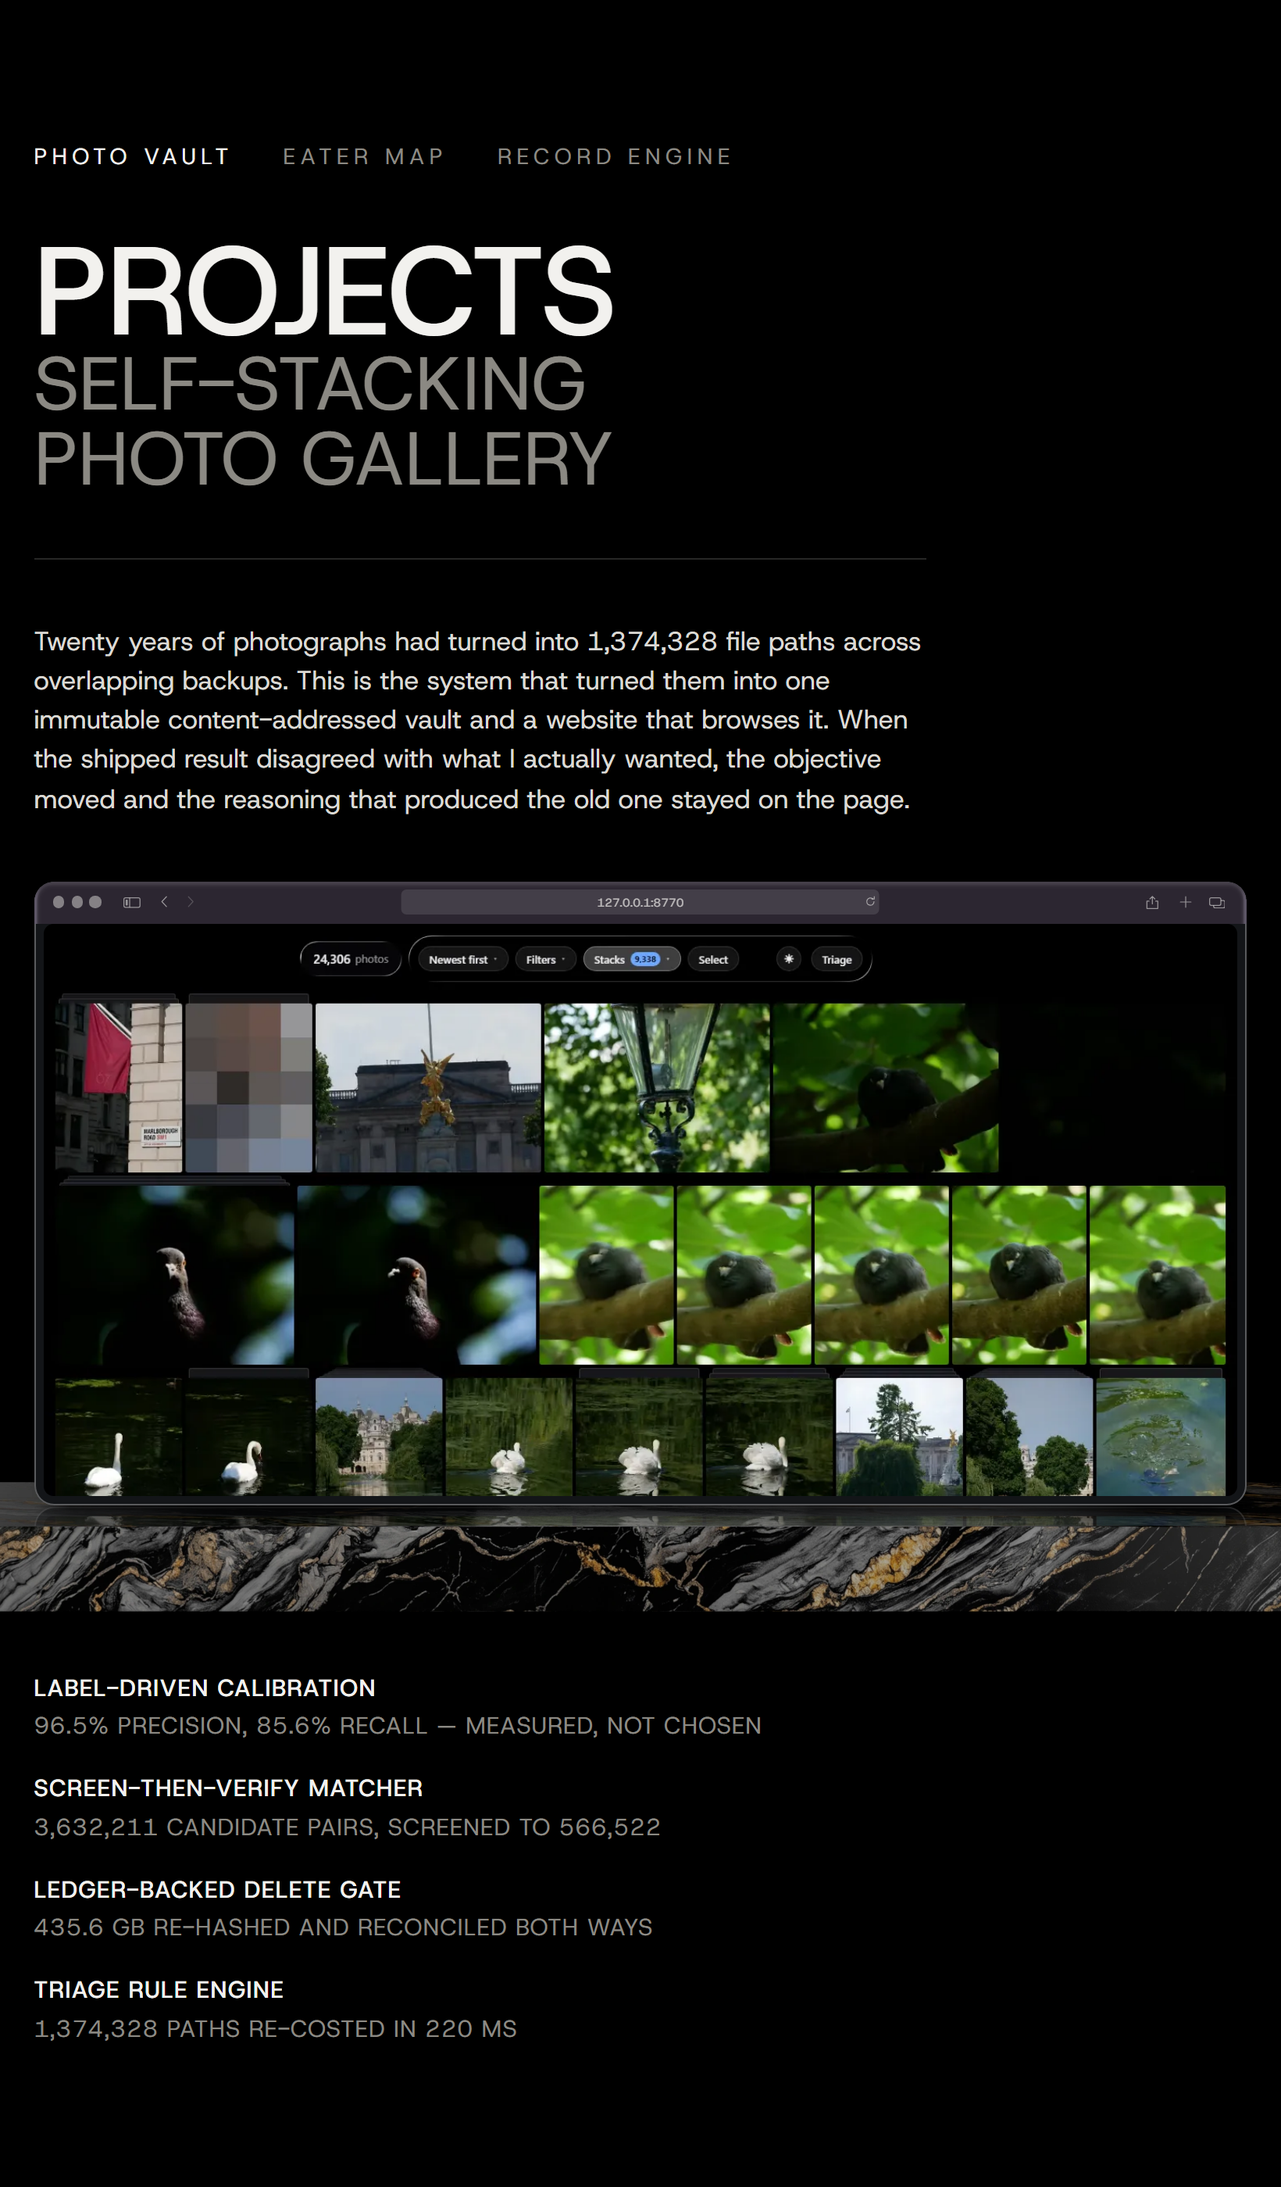
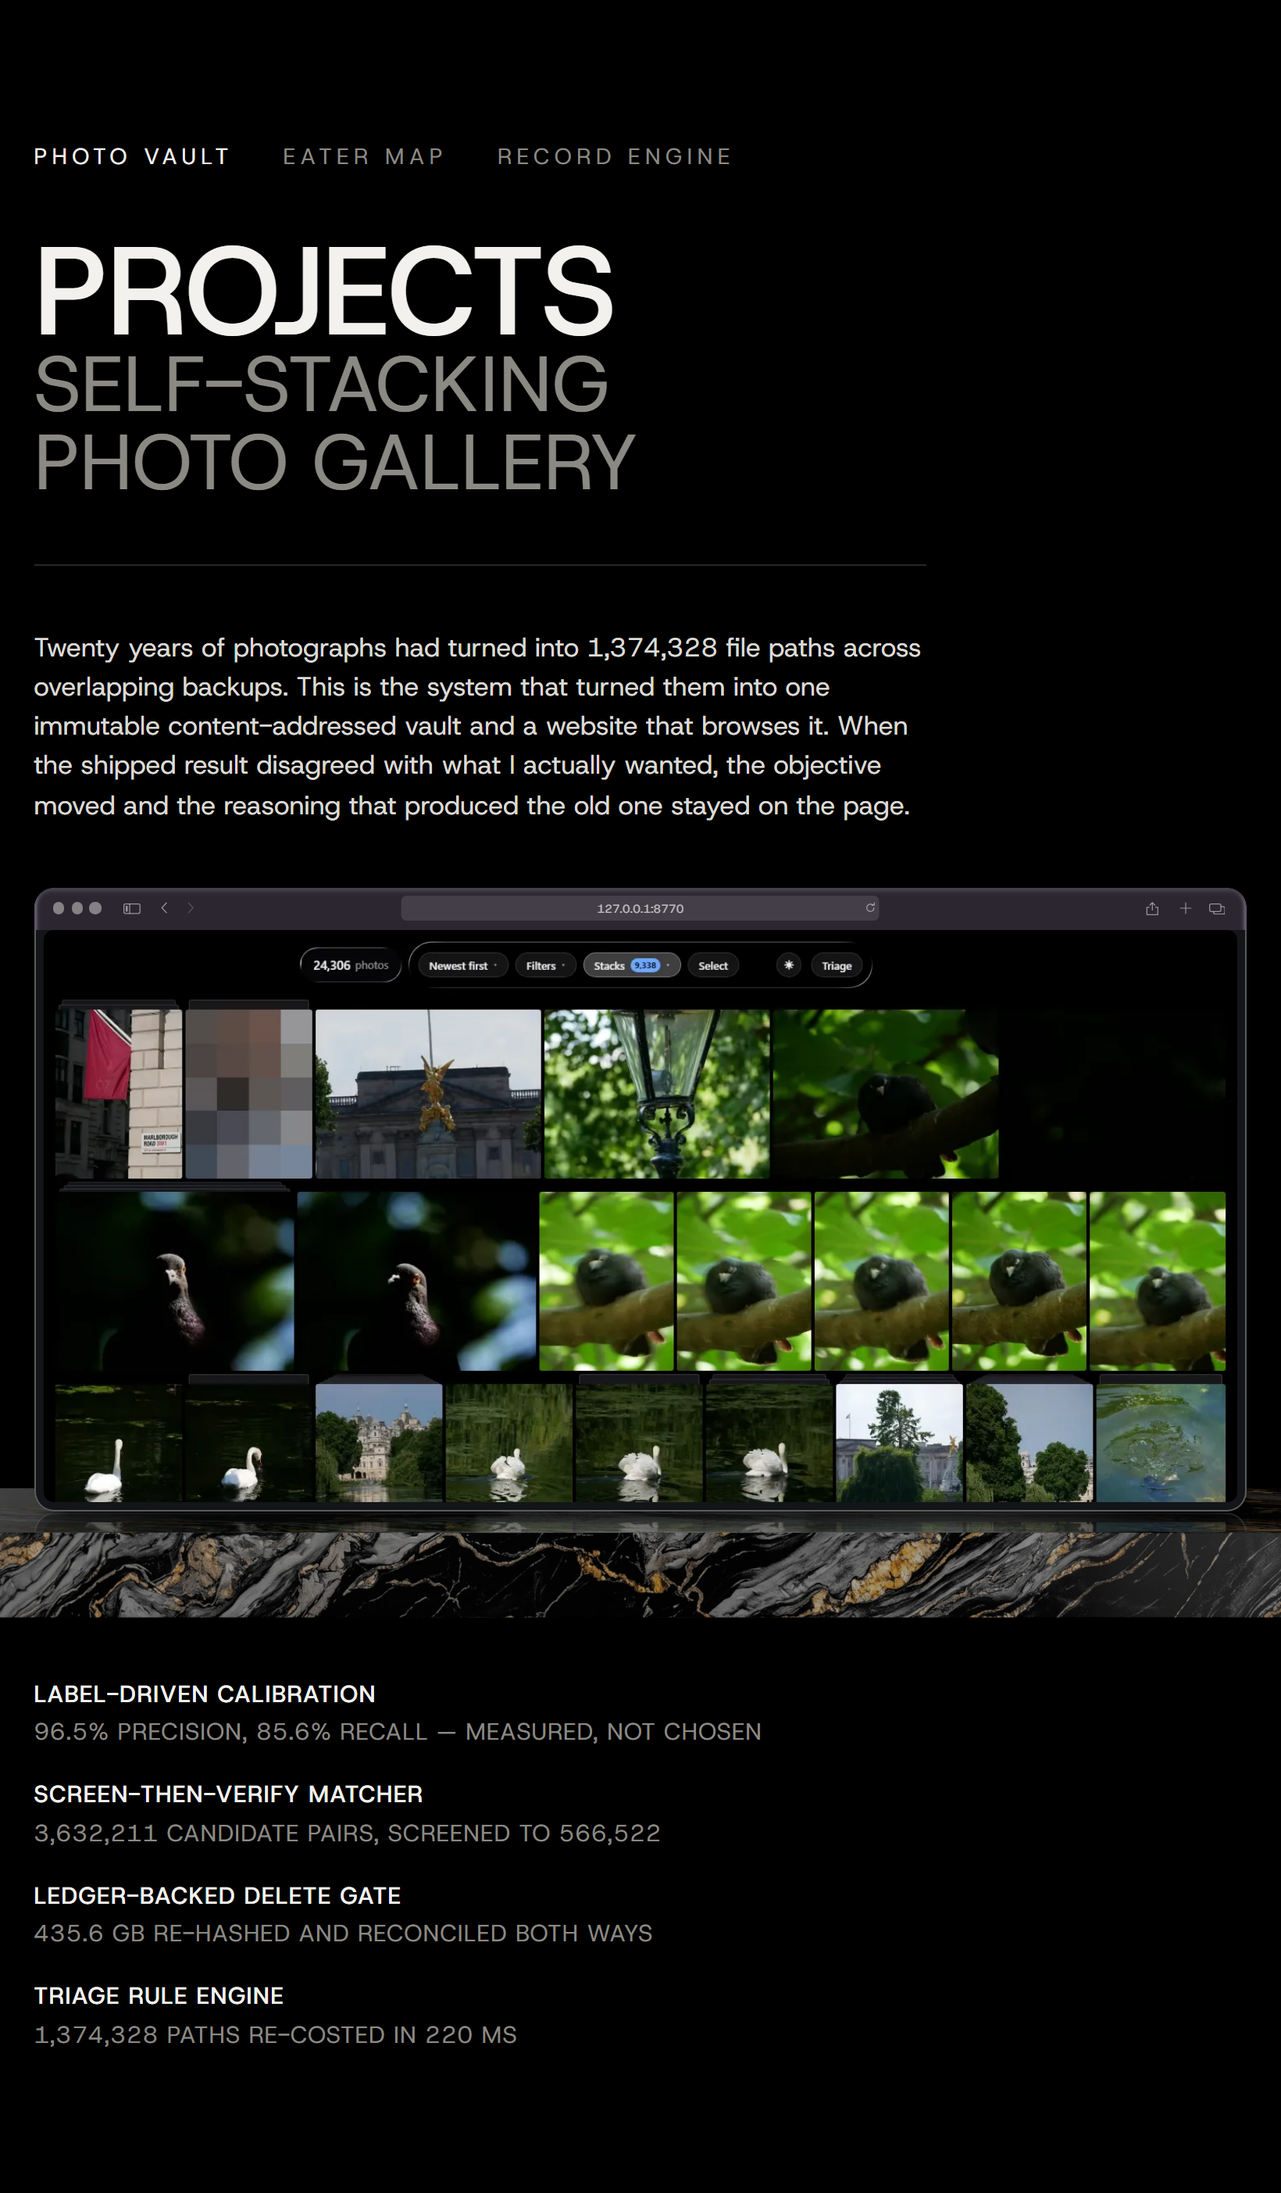
Take the height out of the gate, and hold the ratio (#70 review)
Four fixes from the two-axis review of the first commit.

THE GATE LOSES ITS HEIGHT CLAUSE. Negating the whole one-screen band was the
tidier sentence and it was wrong: the composition's width is the smaller of
what the page has across and what the height will carry, so a short window
looked like it must make a broken drawing. Swept on origin/development, it
does not — 2560x650 draws the composition 943 wide, copy at 9.4px and the
slab clear of the points, and so do 1920x650, 1600x620 and 1280x660. Only the
width half is load-bearing, so only the width half is negated. A short, wide
window keeps the composition it always had.

TWO COMMENTS SAID THINGS THAT WERE NOT TRUE, which in this sheet is a defect
rather than a typo.

  - The container query claimed the reflection's clone is 89.85% of the real
    Frame. It is 100.00%: 1.189439 x (1 - 2 x 0.079633) is 1. The clone is
    exactly the Frame's width, so the two gate together — which is the same
    conclusion by a sound route. The comment now also records that the gate
    cannot fire in-band at all: the Frame bottoms out at 727px there, and 672
    was the narrowest measured across 2560x650 down to 1100x700.

  - The type scale claimed the masthead and subheading keep the render's
    ratio. Two clamps cannot hold a ratio — they hit their ends at different
    windows, so 12vw/7.5vw walked from 1.600 to 1.667 over most of the range.
    The subheading is now 0.625 of the masthead and nothing else: measured
[…]

diff --git a/portfolio/styles.css b/portfolio/styles.css
@@ -559,7 +559,13 @@
   --slide-h: clamp(15rem, 40vh, 24rem);  /* carousel image height        */
   --slide-w: calc(var(--slide-h) * 3 / 4);
   --gap: 0.5rem;                          /* gap between photos           */
-  --edge: max(1.35rem, calc(50vw - var(--col) / 2));  /* where the text column starts */
+  /* Where the text column starts: half the leftover either side of --col, and
+     --page-side once the column is wider than the page has room for. That floor
+     IS .page's own side padding — the same declaration, read from the other end —
+     so it is the variable rather than the literal it was written as. Declared
+     below this line, which costs nothing: both are on this one :root and custom
+     properties resolve after the whole block is read, not in source order. */
+  --edge: max(var(--page-side), calc(50vw - var(--col) / 2));
 
   /* ---- the page's one vertical rhyme --------------------------------------
      The white above the name and the white below the last contact line are the
@@ -3259,13 +3265,24 @@ body::after {
 
    A CONTAINER QUERY AND NOT A MEDIA QUERY, which is the whole reason this is
    here rather than in the stacked block at the foot of the section. The question
-   is how wide the FRAME is, not how wide the window is, and the two come apart
-   in both directions: a wide window with the composition fitted to a short screen
-   draws a small Frame, and the reflection's clone is a .panel-frame of its own at
-   89.85% of the real one's width — so a viewport gate would strip the chrome off
-   the window and leave it in the reflection, or the other way about. .panel-frame
-   is already `container-type: inline-size` for the chrome's own sake, so the gate
-   costs nothing and lands on both copies by construction.
+   is how wide the FRAME is and not how wide the window is, and the two come
+   apart: the composition is fitted to the smaller of the page's width and what
+   its height will carry, so a wide window on a short screen draws a small Frame
+   and a viewport gate would be asking about the wrong box.
+   .panel-frame is already `container-type: inline-size` for the chrome's own
+   sake, so the gate costs nothing — and the reflection's clone is a .panel-frame
+   with a container of its own, so both copies answer the same question about
+   themselves rather than one being told what the other measured. They agree by
+   arithmetic as well: the mirror is inset 7.9633% each side of a slab 118.9439%
+   of the Frame, and 1.189439 x (1 - 2 x 0.079633) is 1.0000, so the clone is the
+   Frame's width exactly and the two rungs change together at every size.
+
+   IT NEVER FIRES INSIDE THE ONE-SCREEN BAND, which is worth stating because a
+   gate that crossed the stacked block's would be two breakpoints pretending to
+   be one. In the band the drawing's width is at least (700 - 2 x --corner) /
+   0.5603, so the Frame bottoms out at 727px at the band's own shortest window and
+   grows from there; 520 is below every value it can take. Measured across
+   2560x650 down to 1100x700: 672 at the narrowest.
 
    520px IS WHERE THE SMALLEST ENABLED GLYPH RUNS OUT. The back chevron is
    0.54cqw, so 2.8px of box at this width, and its 1.5 stroke against a 10-unit
@@ -3472,13 +3489,21 @@ body::after {
    its plinth and its reflection, then the engineering points, with the Rail
    turned across the top.
 
-   THE GATE IS THE SHEET'S OWN ONE-SCREEN BAND, NEGATED, and it is the same
-   1100x700 the composing block near the top and the landing at the foot are
-   written against. That is the point of it: the composition IS the one-screen
-   regime's drawing — it is the thing the cut word lands in the masthead slot of,
-   it is what the two snap ports are placed around, and its width is solved from
-   --fold. Outside the band none of that applies, and the drawing was being asked
-   to hold anyway.
+   THE GATE IS THE WIDTH HALF OF THE SHEET'S OWN ONE-SCREEN BAND, NEGATED — the
+   same 1100 the composing block near the top and the landing at the foot are
+   written against, and stated as `not all and (min-width: …)` rather than as a
+   `max-width` so it is that gate's exact complement at fractional widths too.
+
+   AND ONLY THE WIDTH HALF, WHICH WAS MEASURED RATHER THAN ASSUMED. Taking the
+   whole band negated is the tidier sentence and it is wrong: the composition's
+   width is `min(what the page has across, what the height will carry)`, so a
+   short window makes a small drawing at any width and it looked like the height
+   belonged in the gate. Swept on the tree this block replaces, it does not.
+   2560x650 draws the composition 943 wide — copy at 9.4px, the slab clear of the
+   points by construction — and so do 1920x650, 1600x620 and 1280x660. The height
+   branch only pulls the drawing under the width the failures below start at when
+   the window is shorter than about 500px, which is not a window this page has
+   ever been asked to hold. A short, wide window keeps the composition.
 
    IT DOES NOT HOLD, and the two failures are measured rather than a matter of
    taste. Both come out of the same place: the copy has no floor — it cannot have
@@ -3500,8 +3525,11 @@ body::after {
      that the Frame is allowed to occlude the subheading and is not allowed to eat
      the list, and it is the stone rather than the window that eats it.
 
-   So the drawing is clear of itself from about 925px, and the band's own edge is
-   175px above that — the same answer twice over, with margin.
+   So the drawing stops eating itself at about 925px, and 1100 is 175px above
+   that. The margin is deliberate and it is where the copy is: at 1024 the slab is
+   already clear and the paragraph is still 8.2px, so the number that ends the
+   hard failure is not the number the composition is worth drawing at. 1100 is the
+   nearest of the two that the sheet already stands on.
 
    WHICH REPLACES TWO NUMBERS THAT WERE ADMITTEDLY GUESSES. It was
    `(max-width: 900px) and (pointer: coarse), (max-width: 600px)`, and the pointer
@@ -3509,7 +3537,7 @@ body::after {
    window two different pages, and it was the touch one that got the readable
    page. Nothing in here is about fingers — there is nothing to tap — so there is
    nothing for `pointer` to be asking. */
-@media not all and (min-width: 1100px) and (min-height: 700px) {
+@media not all and (min-width: 1100px) {
   .panel {
     /* No height term and no fit to solve for: the stack is taller than a screen
        by design, so the drawing takes the width it is given.
@@ -3523,7 +3551,22 @@ body::after {
        composition got 238 of 390 while the CV directly above it, which has
        always set its own sides to --page-side, got 347. The drawing was not too
        big for the screen; it had been given a third of one. Top and bottom keep
-       --corner, where it is measuring the thing it was written for. */
+       --corner, where it is measuring the thing it was written for.
+
+       `100vw` INCLUDES A CLASSIC SCROLLBAR AND THIS BOX DOES NOT, which is worth
+       writing down because it is the one length in here that is not exact. The
+       stacked page always scrolls, so on a platform that reserves a gutter for
+       the bar — Windows, and only outside overlay-scrollbar mode — --panel-w runs
+       about 15px over the box it describes. Nothing lays out FROM it here: the
+       track is `1fr` and the plinth's width a real percentage, so the drawing is
+       the right shape either way. What drifts is --panel-frame-w's three plinth
+       depths and the Frame's corner radius, by 15 in 1055 at the top of this
+       block's range and 15 in 332 on a phone — where the platforms that do it
+       are the ones with overlay bars, so in practice zero. It is inherited rather
+       than introduced, the block this replaces read 100vw too, and the fix is not
+       a smaller number: it is the stage becoming an inline-size container so the
+       plinth can be stated in `cqw`, which is a change to the composition above
+       as much as to this block and does not belong in a reflow. */
     --panel-w: calc(100vw - 2 * var(--page-side));
     --panel-frame-w: var(--panel-w);
     /* The five sizes, and every one of them is a size rather than a share. The
@@ -3534,32 +3577,65 @@ body::after {
        readable, and a headline that is a share of a phone's width is exactly the
        scaled-down desktop it asks for instead.
 
-       THE MASTHEAD AND THE SUBHEADING KEEP THEIR RATIO, which is the one thing
-       the .panel type scale says to preserve if either is ever re-chosen by eye:
-       12 over 7.5 is 1.60 against the render's 1.59, so the two still read as one
-       masthead. The vw terms are what carry the drawing between a 390px phone and
-       the 1099px window at the top of this block's range; the floors are for the
-       320px screen below it and the ceilings stop the head from eating a wide
-       stacked window on its own.
+       THE SUBHEADING IS A SHARE OF THE MASTHEAD AND NOT A CLAMP OF ITS OWN, and
+       that is the one structural difference from the scale above. The .panel type
+       scale names 1.59 — the render's masthead cap over its subheading's — as the
+       thing to preserve if either is ever re-chosen by eye, because it is what
+       makes the two read as one masthead rather than as a title and a caption.
+       Two clamps cannot hold a ratio: 12vw over 7.5vw is 1.60, but the two hit
+       their ceilings at different windows (the sub at 640px, the head at 667) and
+       both floors at different ones again, so the ratio walks to 1.667 over most
+       of this block's range and back. 0.625 is that 12-over-7.5 written once, and
+       it holds at every width because the masthead's own ends carry it: measured
+       1.600 from 300px to 1099. Which is the render's 1.59 to within a hundredth,
+       and nearer it than the composition's own pair — 0.0380 over 0.0598 is
+       1.574 — so the two regimes differ by less than either differs from the
+       render, and neither is the one to move.
 
-       --panel-small-size and --panel-rail-size get sizes here too, and their
-       floors above go with them. Those floors are stated in px against a 16px
-       rem because inside the one-screen band the root's font-size is solved from
-       the window and a rem is not the reader's. Outside the band it is, so these
-       are in rem and they answer to the reader's own text size. */
+       THE OTHER THREE ARE SIZES RATHER THAN SHARES, and are chosen against what
+       they have to be readable at rather than derived from the drawing — there is
+       nothing left to derive them from, which is the whole of what this block is.
+       The floors are the 320px screen and the ceilings the 1099px window at the
+       top of the range; between them the vw term is what carries the drawing.
+         copy   3.8vw is 14.8px at 390 and 16.8 at the 1.05rem ceiling, which is
+                a page's running text at both ends. It cannot be a share here for
+                the reason it cannot be one above.
+         small  3.2vw, so the points sit at 0.84 of the copy — the same subordinate
+                step the scale above gives them at 0.668 of 1.00, rounded up
+                because 0.668 of 14.8px is 9.9 and the phone is where they are
+                read closest.
+         rail   2.9vw, and its floor and gap are solved against the three names —
+                see the Rail block below, which is where that arithmetic is.
+
+       THE FLOORS ARE IN REM HERE AND IN PX ABOVE, which is the same distinction
+       the scale above draws and the opposite answer. Inside the one-screen band
+       the root's font-size is solved from the window, so a rem is not the
+       reader's and a rem floor would shrink with the thing it holds up. Outside
+       the band the root is the reader's own, and a floor that answers to their
+       text size is the one to want. */
     --panel-masthead-size: clamp(2.5rem, 12vw, 5rem);
-    --panel-sub-size:      clamp(1.5rem, 7.5vw, 3rem);
+    --panel-sub-size:      calc(0.625 * var(--panel-masthead-size));
     --panel-copy-size:     clamp(0.85rem, 3.8vw, 1.05rem);
     --panel-small-size:    clamp(0.8rem, 3.2vw, 0.95rem);
     --panel-rail-size:     clamp(0.7rem, 2.9vw, 0.9rem);
     /* One rhythm for the whole stack, so the head, the copy, the Frame and the
-       points are spaced by one number rather than by four margins that drift. */
+       points are spaced by one number rather than by four margins that drift.
+       5vw is a third of the masthead's 12vw at every width between the ends, and
+       the ends are that same third of the masthead's: 2.5rem under 5rem, 1.5rem
+       under 2.5rem. So the air between the blocks is a third of the largest thing
+       on the page, which is what keeps the stack reading as one column of
+       separated things rather than as four things that happen to follow. */
     --panel-stack-gap: clamp(1.5rem, 5vw, 2.5rem);
 
     padding: var(--corner) var(--page-side);
+    /* ONE COLUMN, AND `1fr` RATHER THAN --panel-w, so the track is exactly the
+       content box and there is no free space in the grid at all. That is what
+       retires the base rule's `justify-content: center` without restating it —
+       centring nothing is centring — and the two children below each state their
+       own `align-self`, so its `align-items: center` is answered there rather
+       than overridden here. Neither is re-declared in this block: a declaration
+       that changes no pixel is a declaration the next reader has to disprove. */
     grid-template-columns: minmax(0, 1fr);
-    justify-content: stretch;
-    align-items: stretch;
     row-gap: var(--panel-stack-gap);
   }
   /* ---- the Rail, turned across the top ------------------------------------
@@ -3596,6 +3672,12 @@ body::after {
     justify-content: flex-start;
     align-items: baseline;
     column-gap: clamp(0.9rem, 4vw, 2rem);
+    /* Only ever seen on the two screens too narrow for one line, and in ems of
+       the Rail's own size so it follows the type it is separating. Half a line
+       of it: .panel's line-height is 1.5, so the names already carry a quarter of
+       their size above and below, and 0.5em on top puts a clear line of space
+       between two rows without opening a gap a reader could take for a break
+       between two lists. */
     row-gap: 0.5em;
   }
   .panel-rail li { writing-mode: horizontal-tb; transform: none; }
@@ -3636,7 +3718,17 @@ body::after {
      the Frame — has nothing left to clear. Its INTERNAL gap stays a share of the
      drawing and so had shrunk to 4px at phone width, which ran the four points
      together into one block of type; a multiple of their own size holds them
-     apart at every width instead. */
+     apart at every width instead.
+
+     1.35 of that size, and the number it has to beat is the gap already INSIDE
+     each point: the figure line carries `margin: 0.35em` off its own heading, so
+     anything at or under 0.35 would space four points exactly as far apart as the
+     two lines of one, and the list would read as eight lines rather than as four
+     pairs. 1.35 is that plus one whole line of the type — the smallest step that
+     makes the grouping unambiguous — and it is the same shape as the base rule's
+     share, one number times a size, rather than a length arriving from nowhere.
+     A longhand and not `margin`, which is the trap the base rule's own comment
+     names: the shorthand would take its `list-style` and `padding` with it. */
   .panel-points {
     margin-top: 0;
     row-gap: calc(1.35 * var(--panel-small-size));
